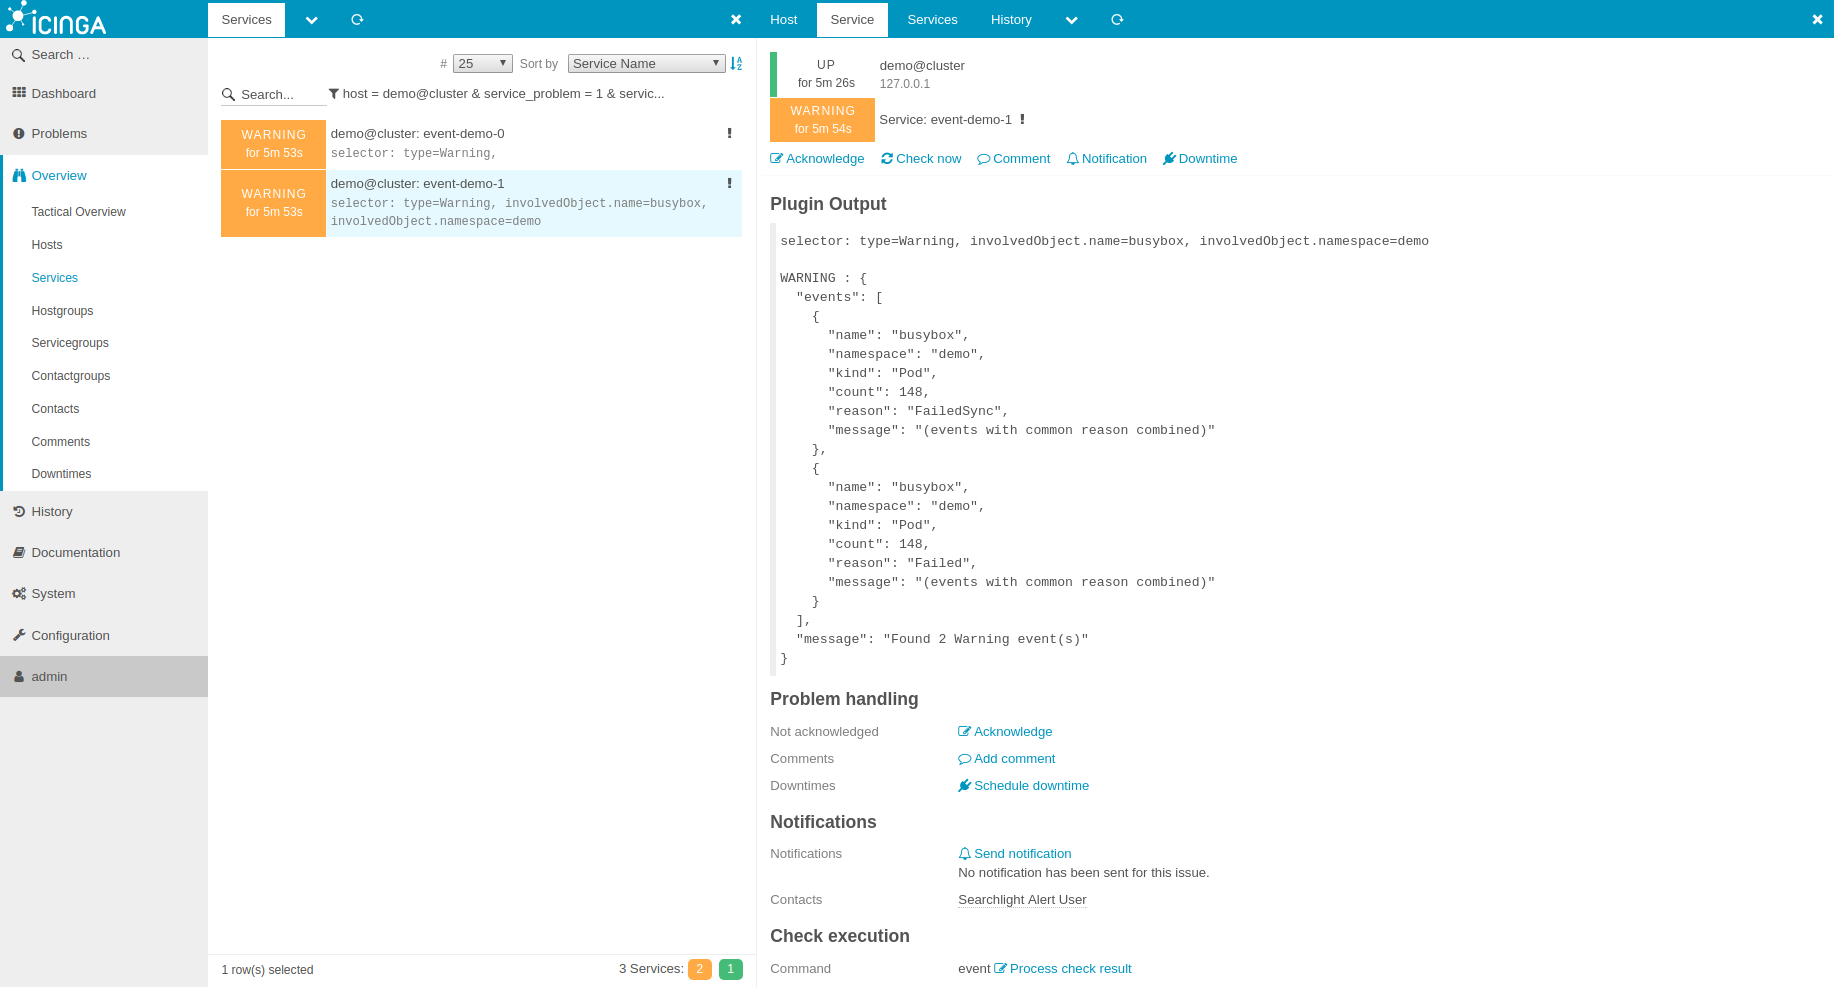
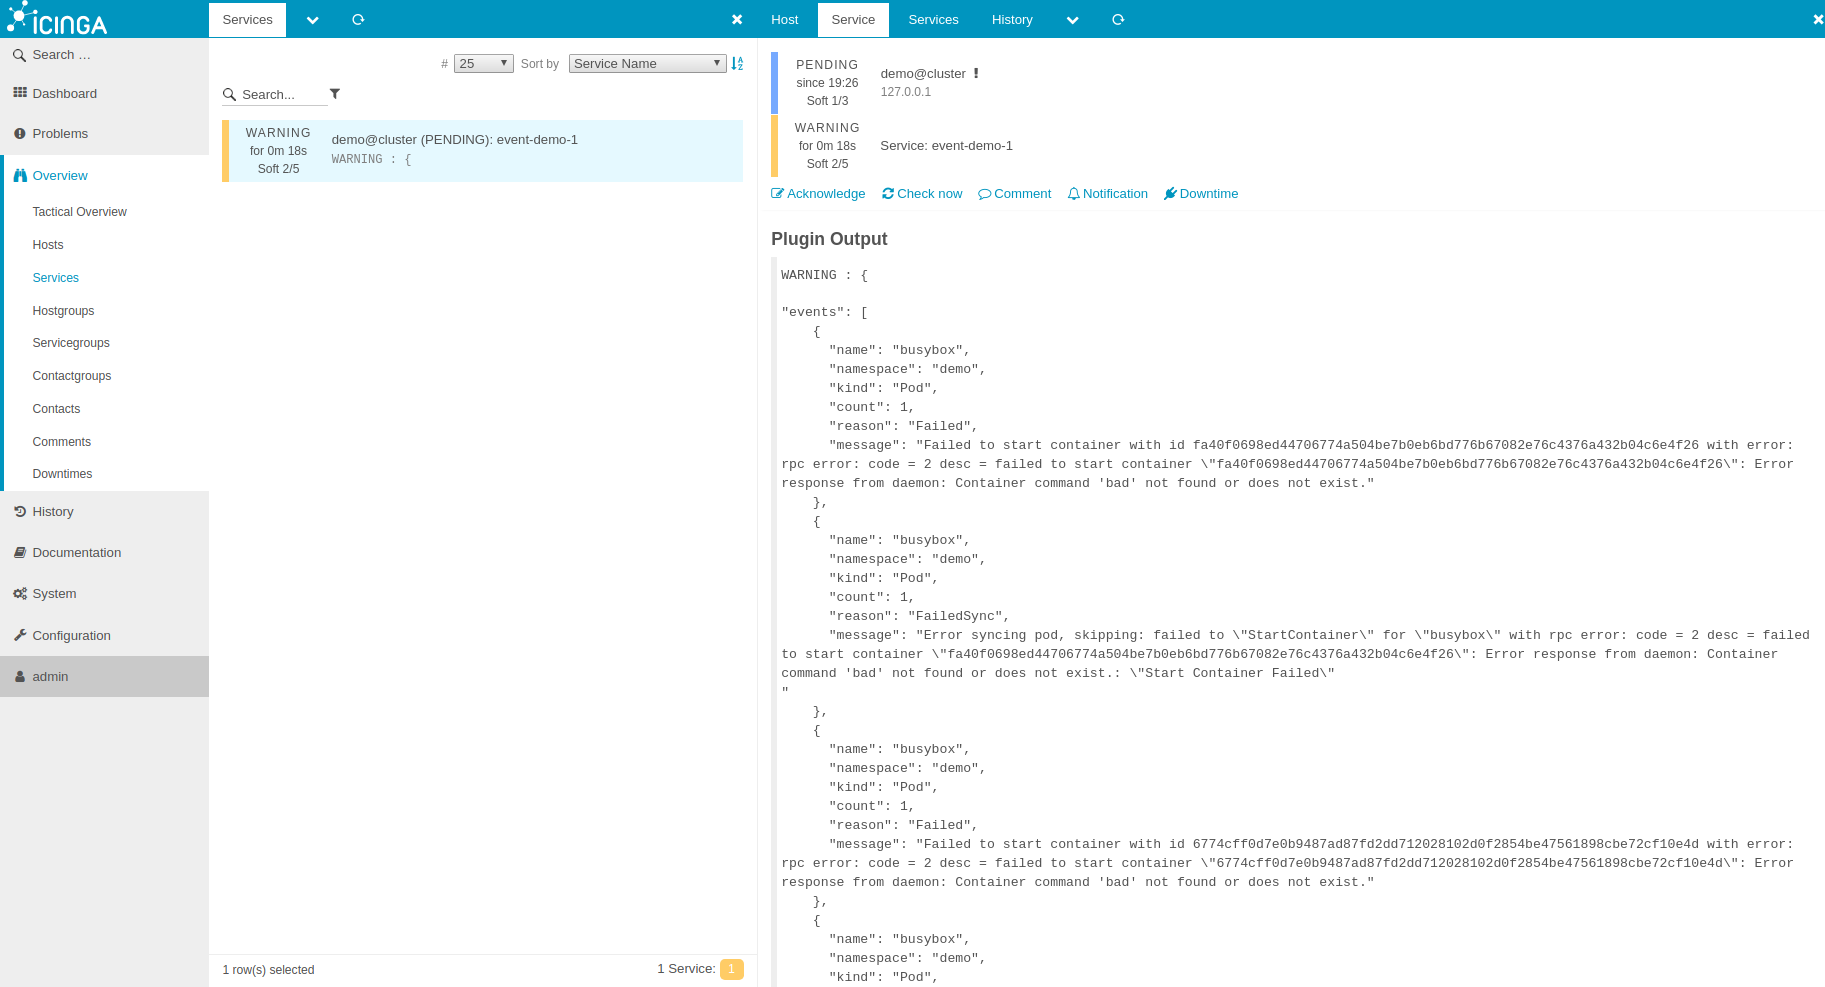
added-all

diff --git a/docs/cluster-alerts/event.md b/docs/cluster-alerts/event.md
@@ -40,7 +40,7 @@ demo          Active    4m
 ```
 
 
-### Check existence of pods with matching labels
+### Check existence of any warning event
 In this tutorial, a ClusterAlert will be used check existence of warning events occurred in the last check interval.
 ```yaml
 $ cat ./docs/examples/cluster-alerts/event/demo-0.yaml
@@ -90,8 +90,8 @@ Voila! `event` command has been synced to Icinga2. Please visit [here](/docs/tut
 ![check-all-pods](/docs/images/cluster-alerts/event/demo-0.png)
 
 
-### Check existence of a specific pod
-In this tutorial, a ClusterAlert will be used check existence of a pod by name by setting `spec.vars.podName` field.
+### Check existence of events for a specific object
+In this tutorial, a ClusterAlert will be used check existence of events for a specific object by setting one or more `spec.vars.involvedObject*` fields.
 ```yaml
 $ cat ./docs/examples/cluster-alerts/event/demo-1.yaml
 
@@ -103,14 +103,14 @@ metadata:
 spec:
   check: event
   vars:
-    podName: busybox
-    count: 1
+    involvedObjectName: busybox
+    involvedObjectNamespace: demo
   checkInterval: 30s
   alertInterval: 2m
   notifierSecretName: notifier-config
   receivers:
   - notifier: mailgun
-    state: CRITICAL
+    state: WARNING
     to: ["ops@example.com"]
 ```
 ```console
